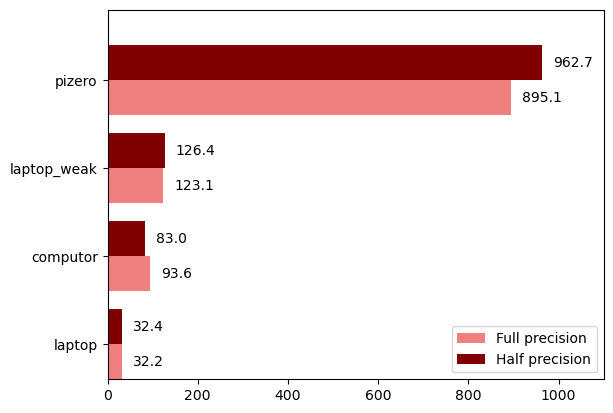
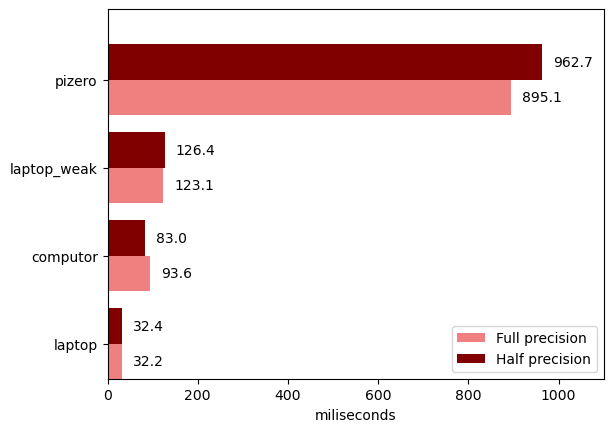
final final

diff --git a/latex/report/report.tex b/latex/report/report.tex
@@ -104,7 +104,7 @@ The datasets we have selected contained a large amount of various images featuri
 
 After the datasets have been processed and the relevant images extracted, we have compiled our dataset. The resulting distribution can be seen in \ref{fig:combined_dataset}. An interesting feature to be observed is the spike that occurs on 13 people per image. So far, science has been unable to explain it.
 
-With the reduced dataset size, the model was trained on a desktop computer with the following specifications: \textit{Ryzen 5 2600X CPU, 16GB RAM, Nvidia 1660 6GB GPU}. The model was trained for 25 epochs, with the results available in Appendix \ref{appendix:results}. The original model as well as our re-trained model have been benchmarked using COCO8, a subset of COCO used for experimentation and testing. In it, our model has performed better across the board when compared to the original YOLO26n. We have achieved smaller model size, faster inference and more frames per second (FPS). The results can be observed in Appendix \ref{appendix:benchmark}.
+With the reduced dataset size, the model was trained on a desktop computer with the following specifications: \textit{Ryzen 5 2600X CPU, 16GB RAM, Nvidia 1660 6GB GPU}. The model was trained for 25 epochs, with the results available in Appendix \ref{appendix:results}. The original model as well as our re-trained model have been benchmarked using COCO8, a subset of COCO used for experimentation and testing. In it, our model has performed better across the board when compared to the original YOLO26n. We have achieved smaller model size, faster inference and more frames per second (FPS). The only worse-performing metric is accuracy, due to our model only being trained on one label (person) versus the 80 \textit{YOLO} is capable of. The results can be observed in Appendix \ref{appendix:benchmark}.
 
 Aditionally, we have quantized the model and ran it on various hardware with limited speeds. For benchmarking, we used 23 never-seen-before (by the model) images, and ran inference on them 5 times. The results reported in \ref{fig:avgs} represent the average inference speed across 115 inferences.
 The results are reassuring - even an extremely cheap and limited hardware such as \textit{Raspberry Pi Zero 2W} is able to run our model at reasonable speeds. If sporadic snapshots are enough, this device is capable of running such a workload.
@@ -121,12 +121,11 @@ The results are reassuring - even an extremely cheap and limited hardware such a
     \hspace{4em}\textbf{laptop:} \quad AMD Ryzen 7 7730U 2.0 GHz, iGPU Radeon Vega 8
     
     \centering
-    \caption{Composition of different datasets before filtering.}
+    \caption{Average inference time in miliseconds.}
     \label{fig:avgs}
 \end{figure}
 
 We have attempted to configure and run the model on an original ESP32 as well. However, given that it is very old and dated hardware, we have been unable to get it working. Some of the models that do run on that hardware are fairly dated themselves, and have already been thoroughly investigated.
-
 
 \section{Conclusions} % (and ideas for future work)
 
